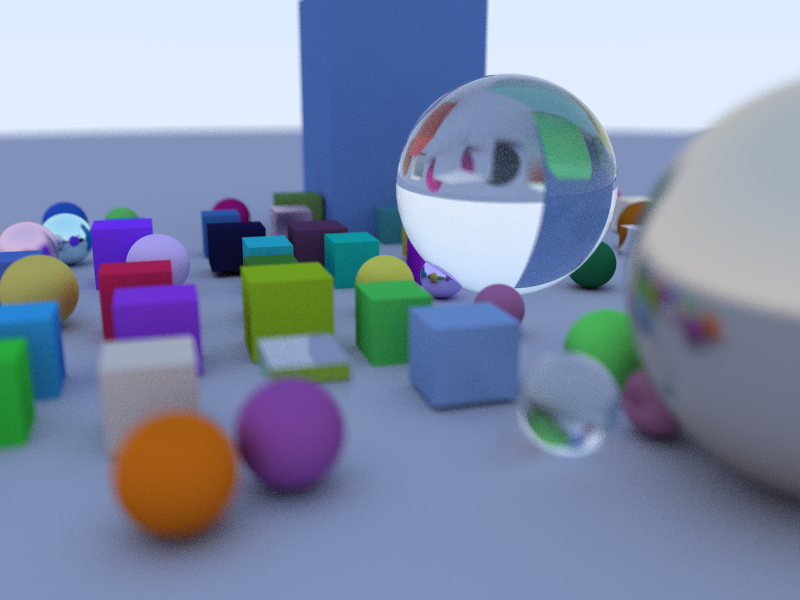
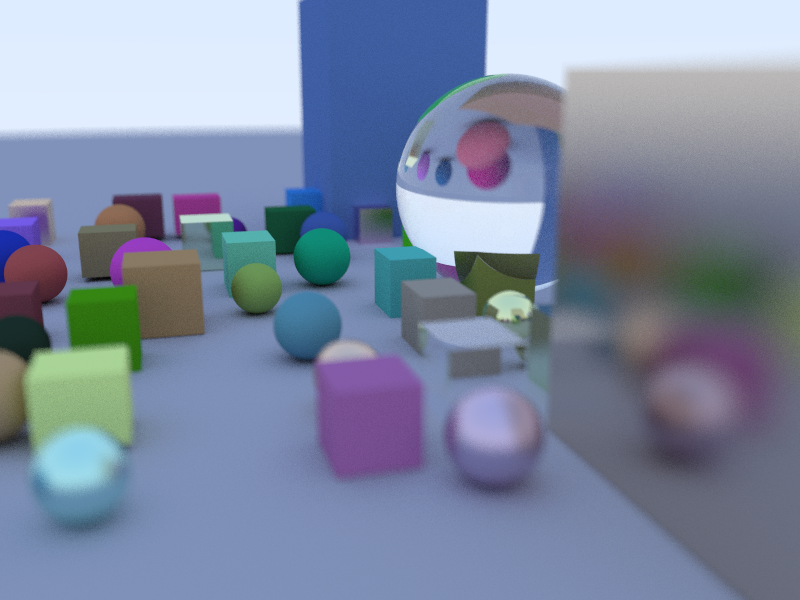
Test CUDA changes

diff --git a/src/main.rs b/src/main.rs
@@ -12,6 +12,13 @@ use rand::{thread_rng, Rng};
 extern crate scoped_threadpool;
 use scoped_threadpool::Pool;
 
+#[macro_use]
+extern crate rustacuda;
+
+#[macro_use]
+extern crate rustacuda_derive;
+extern crate rustacuda_core;
+
 mod snmath;
 mod snrt;
 
@@ -20,6 +27,55 @@ use snmath::Ray;
 
 use snrt::Camera;
 use snrt::world::World;
+
+fn cuda_test() -> Result<(), Box<dyn std::error::Error>> {
+    use rustacuda::prelude::*;
+    use rustacuda::memory::DeviceBox;
+
+    // Initialize the CUDA API
+    rustacuda::init(CudaFlags::empty()).expect("CUDA init failed");
+    
+    // Get the first device
+    let device = Device::get_device(0).expect("CUDA device creation failed");
+
+    // Create a context associated to this device
+    let _context = Context::create_and_push(ContextFlags::MAP_HOST | ContextFlags::SCHED_AUTO, device).expect("CUDA context failed");
+
+    // Load the module containing the function we want to call
+    let module_data = std::ffi::CString::new(include_str!("../cuda_resources/add.ptx")).unwrap();
+    let module = Module::load_from_string(&module_data).expect("CUDA module load failed");
+
+    // Create a stream to submit work to
+    let stream = Stream::new(StreamFlags::NON_BLOCKING, None).expect("Stream create failed");
+
+    // Allocate space on the device and copy numbers to it.
+    let mut x = DeviceBox::new(&10.0f32)?;
+    let mut y = DeviceBox::new(&20.0f32)?;
+    let mut result = DeviceBox::new(&0.0f32)?;
+
+    // Launching kernels is unsafe since Rust can't enforce safety - think of kernel launches
+    // as a foreign-function call. In this case, it is - this kernel is written in CUDA C.
+    unsafe {
+        // Launch the `sum` function with one block containing one thread on the given stream.
+        launch!(module.sum<<<1, 1, 0, stream>>>(
+            x.as_device_ptr(),
+            y.as_device_ptr(),
+            result.as_device_ptr(),
+            1 // Length
+        )).expect("CUDA launch failed");
+    }
+
+    // The kernel launch is asynchronous, so we wait for the kernel to finish executing
+    stream.synchronize().expect("CUDA synchronize failed");
+
+    // Copy the result back to the host
+    let mut result_host = 0.0f32;
+    result.copy_to(&mut result_host).expect("CUDA result copy failed");
+    
+    println!("Sum is {}", result_host);
+
+    Ok(())
+}
 
 fn color(r: Ray, world: &World, bounce: i32) -> Vector3 {
     if bounce > 50 {
@@ -49,6 +105,8 @@ fn color(r: Ray, world: &World, bounce: i32) -> Vector3 {
 }
 
 fn main() -> std::io::Result<()> {
+    cuda_test().unwrap();
+
     let args: Vec<String> = std::env::args().collect();
 
     if args.len() < 3 {
@@ -69,6 +127,11 @@ fn main() -> std::io::Result<()> {
         Err(_e) => 256,
     };
 
+    let box_pct = match args[3].parse::<f32>() {
+        Ok(n) => n,
+        Err(_e) => 0.5,
+    };
+
     let f_width = width as f32;
     let f_height = height as f32;
 
@@ -82,7 +145,7 @@ fn main() -> std::io::Result<()> {
     let focal_dist = (look_from-look_at).length();
     let cam = Camera::create_camera(look_from, look_at, Vector3 {x:0.0,y:1.0,z:0.0}, 40.0, f_width/f_height, 0.3, focal_dist);
 
-    let world = World::create();
+    let world = World::create(box_pct);
 
     let buffer_stride = 3;
     let mut buffer_rgb: Vec<u8> = Vec::new();

diff --git a/src/snrt/world.rs b/src/snrt/world.rs
@@ -35,7 +35,7 @@ impl World {
         return best;
     }
 
-    pub fn create() -> World {
+    pub fn create(box_pct : f32) -> World {
         let mut new_world = World { entities: Vec::new() };
         let mut world_rng = thread_rng();
 
@@ -69,7 +69,7 @@ impl World {
                     mat = Box::new(Dielectric{ior:1.5});
                 }
 
-                if type_val < 0.5 {
+                if type_val < box_pct {
                     new_world.entities.push(Box::new(AABox {pos:center, dims:rands, material:mat}))
                 }
                 else {
@@ -84,7 +84,7 @@ impl World {
                                     material:Box::new(Lambertian{albedo:Vector3{x:0.1,y:0.2,z:0.5}})}));
         //new_world.entities.push(Box::new(Sphere {pos: Vector3 {x:-4.0, y:1.0, z:-1.0}, radius: 1.0,
         //                            material:Box::new(Lambertian{albedo:Vector3{x:0.1,y:0.2,z:0.5}})}));
-        new_world.entities.push(Box::new(Sphere {pos: Vector3 {x:4.0, y:1.0, z:-1.0}, radius: 1.0,
+        new_world.entities.push(Box::new(AABox {pos: Vector3 {x:4.0, y:1.0, z:-1.0}, dims: Vector3 {x:1.0,y:1.0,z:1.0},
                                     material:Box::new(Metallic{albedo:Vector3{x:0.7,y:0.6,z:0.5},roughness:0.1})}));
         new_world.entities.push(Box::new(Sphere {pos: Vector3 {x:0.0, y:1.0, z:-1.0}, radius: 1.0, 
                                     material:Box::new(Dielectric{ior:1.5})}));

diff --git a/src/snrt/mod.rs b/src/snrt/mod.rs
@@ -138,7 +138,7 @@ impl Hitable for AABox {
         let ymax = tmins.y.max(tmaxs.y);
         let zmax = tmins.z.max(tmaxs.z);
 
-        if xmax > ymin && xmin < ymax && zmax > xmin && zmin < xmax && ymax  >zmin && ymin < zmax {
+        if xmax > ymin && xmin < ymax && zmax > xmin && zmin < xmax && ymax > zmin && ymin < zmax {
             let hit_t = xmin.max(ymin.max(zmin));
             if hit_t > t_min && hit_t < t_max {
                 return Some(hit_t);
